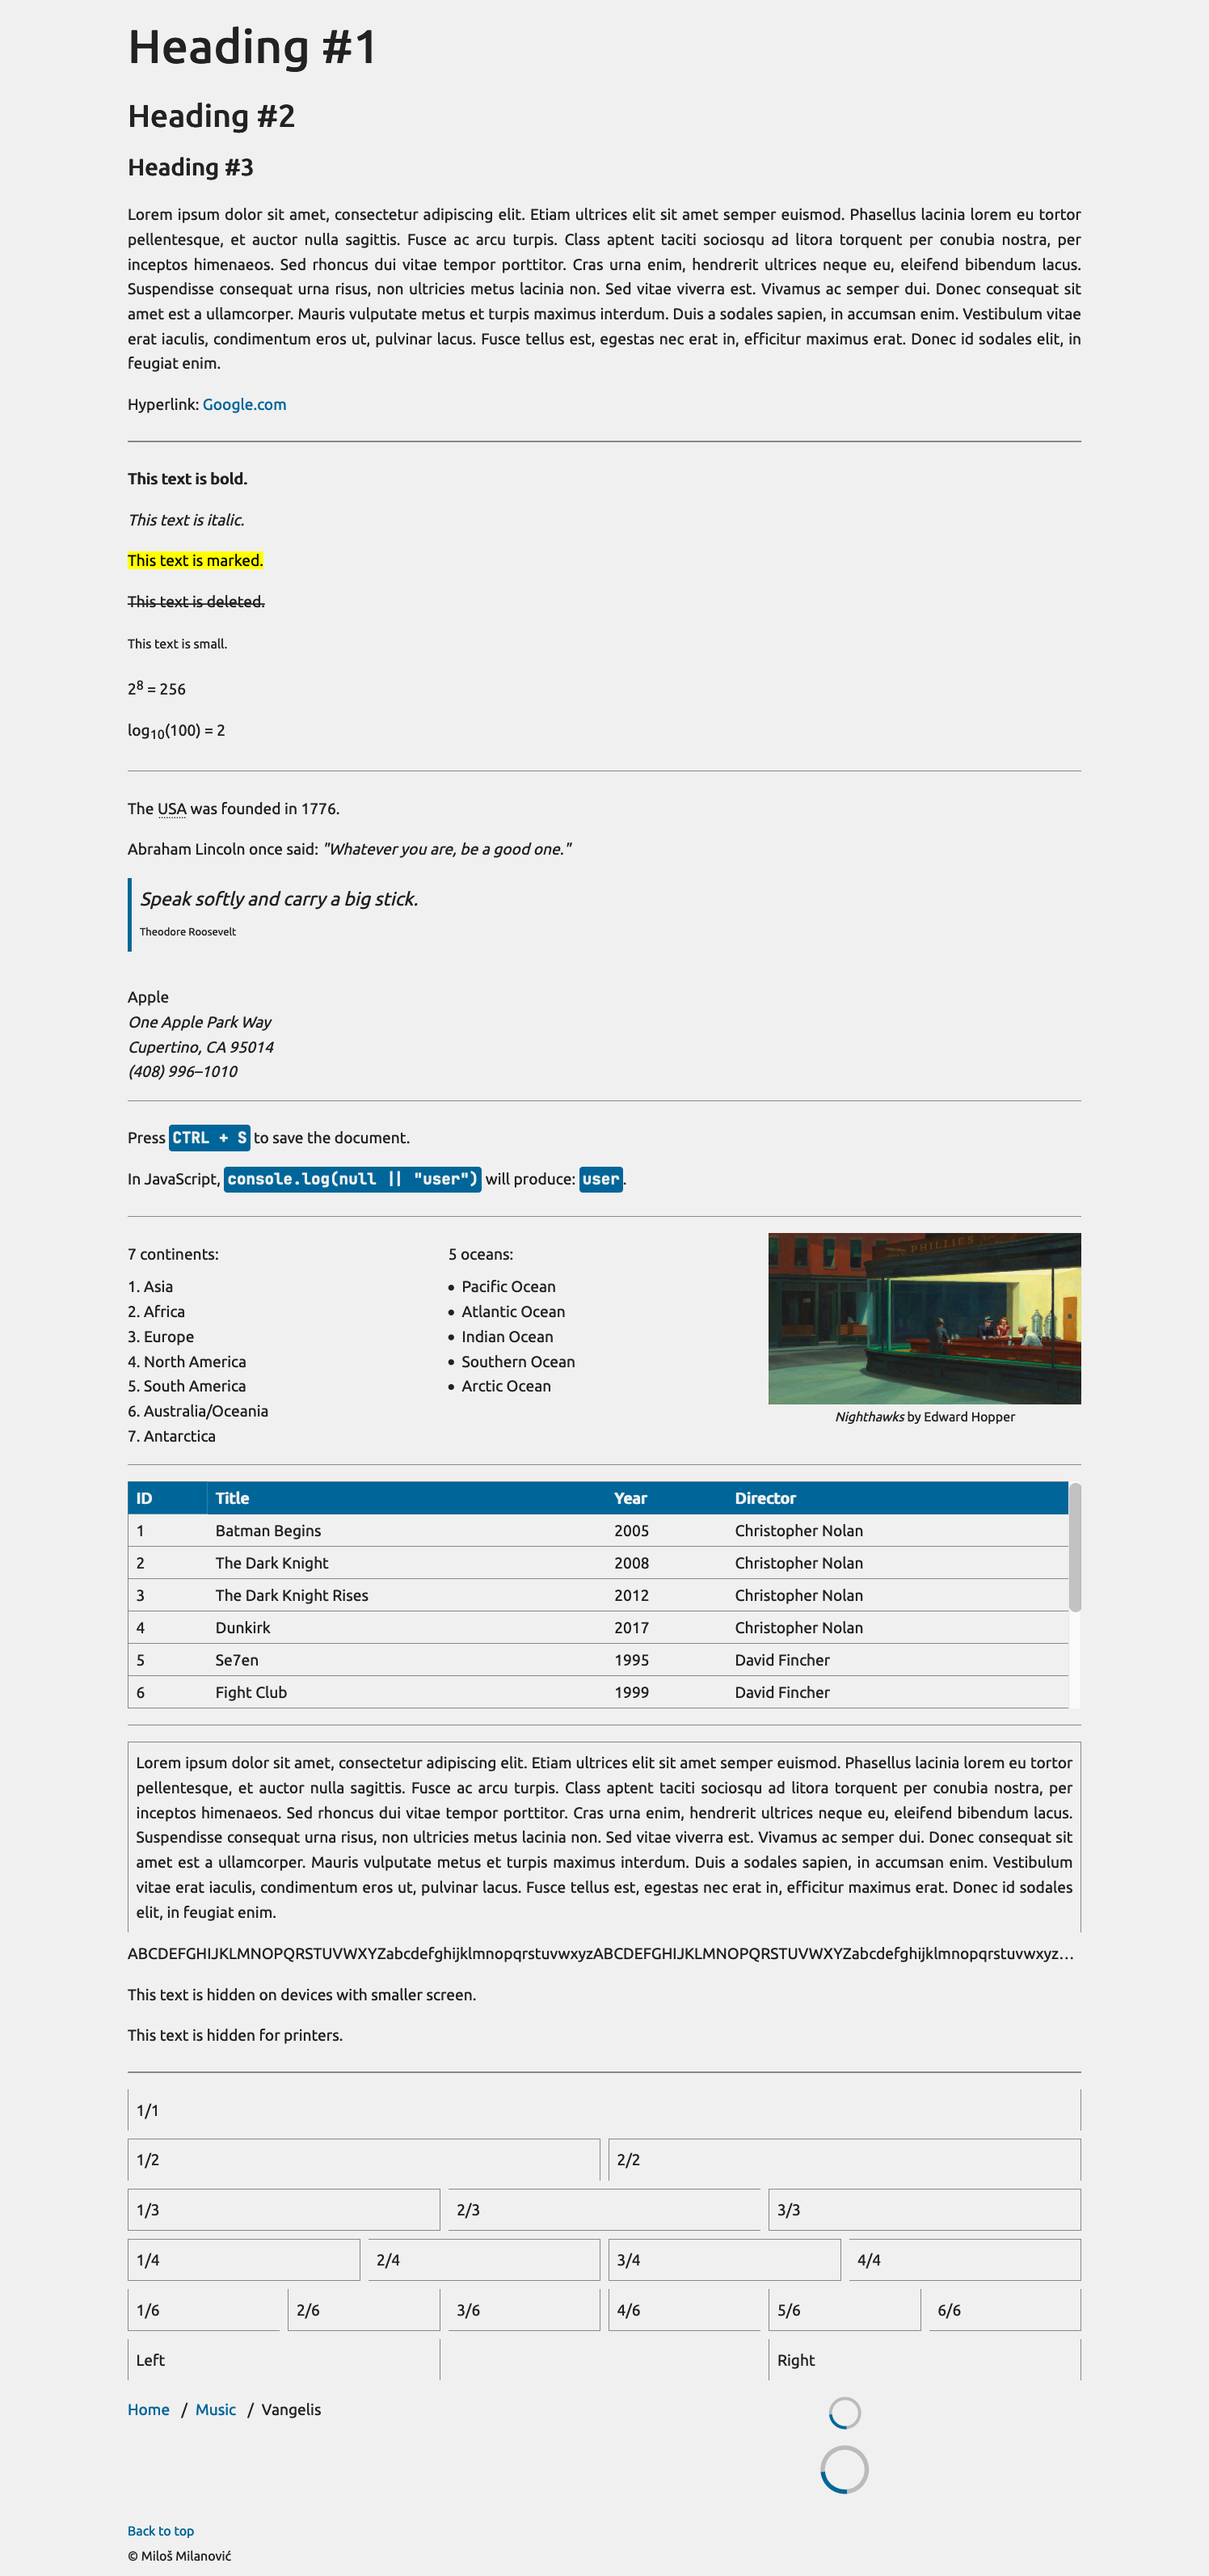
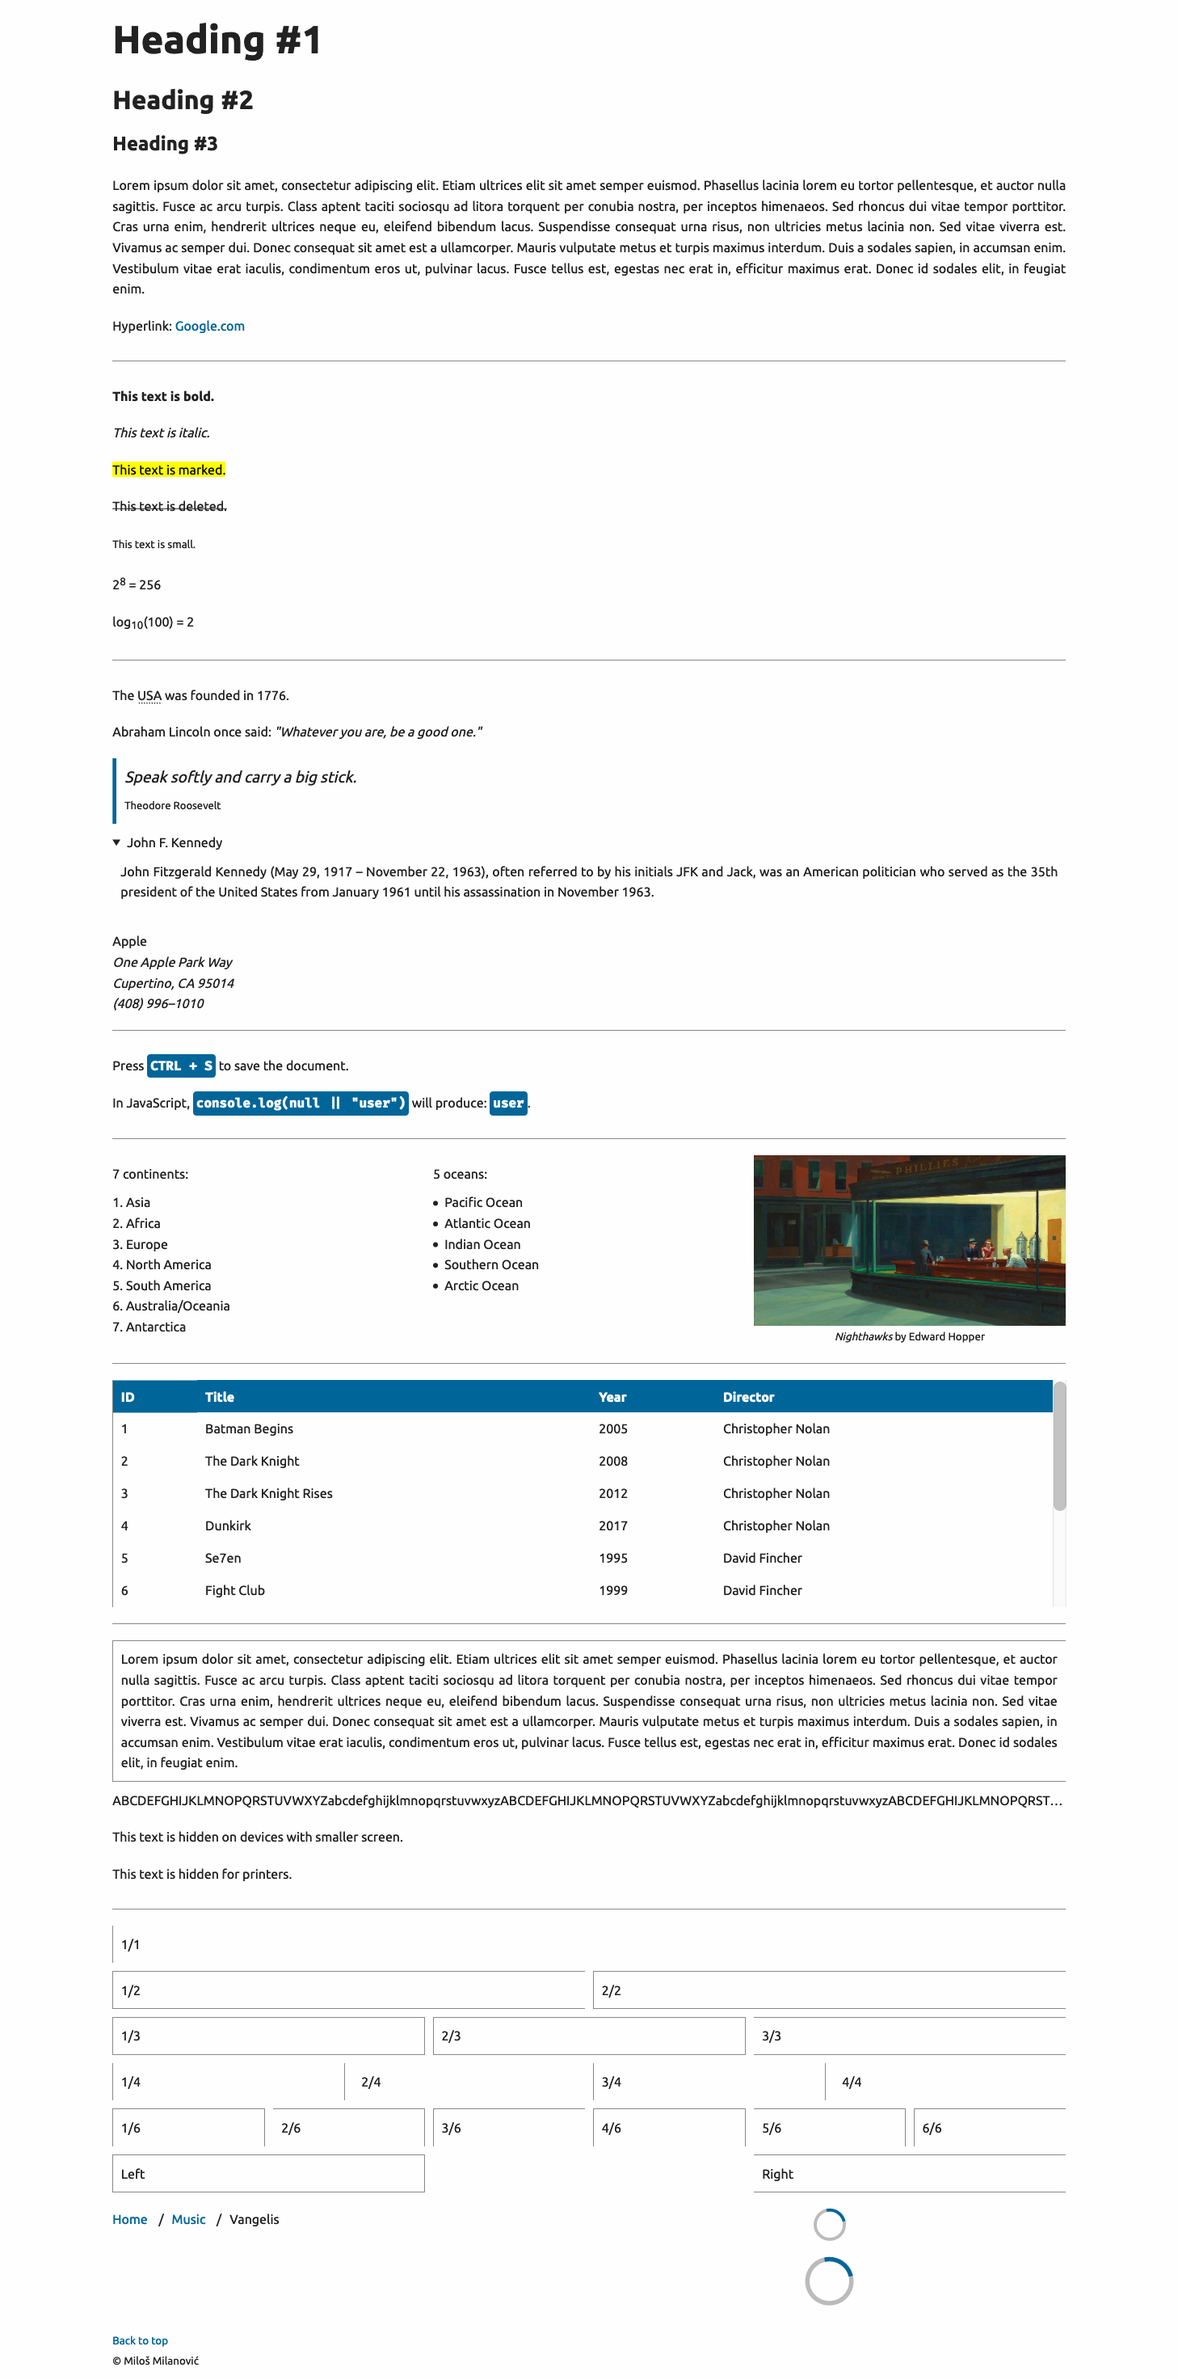
Add HTML details and summary styles

diff --git a/dist/minimalizr.css b/dist/minimalizr.css
@@ -1,1 +1,1 @@
-@import"https://fonts.googleapis.com/css2?family=Ubuntu:wght@300;400;700&display=swap";@import"https://fonts.googleapis.com/css2?family=Fira+Code:wght@300;400;700&display=swap";*{font-family:"Ubuntu",sans-serif}*{box-sizing:border-box;margin:0;padding:0}*::selection{background-color:#069;color:#f0f0f0}html{font-size:100%;scroll-behavior:smooth}body{background-color:#f0f0f0;color:#222;font-size:1rem;line-height:1.6rem}h1,h2,h3{margin:10px 0}h1{font-size:3rem;line-height:4.8rem}h2{font-size:2rem;line-height:3.2rem}h3{font-size:1.5rem;line-height:2.4rem}p{padding:10px 0;text-align:justify}a{cursor:pointer;text-decoration:none;color:#069}a:hover,a:active{color:inherit}strong{font-weight:bold}em{font-style:italic}mark{background-color:#ff0}del{text-decoration:line-through}small,sub,sup{font-size:smaller}sub{vertical-align:sub}sup{vertical-align:super}abbr{text-decoration:none}abbr[title]{border-bottom:2px dotted #222}q{font-style:italic}q::before,q::after{content:'"'}blockquote{border-left:5px solid #069;font-style:italic;margin:10px 0;padding:10px;text-align:justify;font-size:larger}blockquote div{font-size:small;font-style:normal;margin-top:10px}address,cite{font-style:italic}kbd,samp,code,pre{font-family:"Fira Code",monospace;font-weight:bold}kbd,samp,code{background-color:#069;color:#f0f0f0;padding:4px;border-radius:4px}ul,ol{list-style-position:inside}img{max-width:100%;vertical-align:middle}figure figcaption{font-size:smaller;text-align:center}.table-responsive{max-width:100%;overflow-x:auto;overflow-y:scroll;max-height:281px}table{border:1px solid #888;border-right:0;border-collapse:collapse;width:100%}th,td{padding:0 10px;text-align:left;height:40px;vertical-align:middle;white-space:nowrap}th{background-color:#069;color:#f0f0f0;position:sticky;top:0}tbody tr{border-bottom:1px solid #888}tbody tr:last-of-type{border-bottom:0}hr{border:1px solid #888;margin:20px 0}footer{font-size:smaller}@media screen and (max-width: 768px){body{font-size:.9rem}}.container{width:1200px;max-width:100%;margin:0 auto}.container-fluid{width:100%}.container,.container-fluid{padding:0 10px}.row{display:grid;grid-template-columns:repeat(12, 1fr);margin:10px 0}.row-gapped{grid-gap:10px}.col-1{grid-column:span 1}.col-2{grid-column:span 2}.col-3{grid-column:span 3}.col-4{grid-column:span 4}.col-5{grid-column:span 5}.col-6{grid-column:span 6}.col-7{grid-column:span 7}.col-8{grid-column:span 8}.col-9{grid-column:span 9}.col-10{grid-column:span 10}.col-11{grid-column:span 11}.col-12{grid-column:span 12}.col-pull-right{grid-column-end:-1}@media screen and (max-width: 768px){.col-sm-1{grid-column:span 1}.col-sm-2{grid-column:span 2}.col-sm-3{grid-column:span 3}.col-sm-4{grid-column:span 4}.col-sm-5{grid-column:span 5}.col-sm-6{grid-column:span 6}.col-sm-7{grid-column:span 7}.col-sm-8{grid-column:span 8}.col-sm-9{grid-column:span 9}.col-sm-10{grid-column:span 10}.col-sm-11{grid-column:span 11}.col-sm-12{grid-column:span 12}}.bordered{border:1px solid #888}.padded{padding:10px}.text-left{text-align:left}.text-center{text-align:center}.text-right{text-align:right}.text-justify{text-align:justify}.text-truncate{overflow:hidden;text-overflow:ellipsis;white-space:nowrap}.no-scroll{overflow:hidden}ul.breadcrumbs{display:flex;list-style-type:none;user-select:none}ul.breadcrumbs li{padding:10px 0}ul.breadcrumbs li:not(:last-child)::after{content:" / ";color:#222;display:inline-block;margin:0 10px}ul.breadcrumbs li:last-child a{cursor:initial;font-weight:normal;border-bottom:0;color:inherit}@keyframes spin{from{transform:rotate(0deg)}to{transform:rotate(360deg)}}.spinner{height:40px;width:40px}.spinner,.spinner-l,.spinner-xl,.spinner-xxl{border:4px solid #bbb;border-top:4px solid #069;border-radius:50%;display:block;margin:10px auto;overflow:hidden;animation-name:spin;animation-duration:1s;animation-timing-function:linear;animation-iteration-count:infinite}.spinner-l{height:60px;width:60px;border-width:6px}@media screen and (max-width: 768px){.hide-on-sm{display:none}}@media print{.hide-on-print{display:none}}/*# sourceMappingURL=minimalizr.css.map */
+@import"https://fonts.googleapis.com/css2?family=Ubuntu:wght@300;400;700&display=swap";@import"https://fonts.googleapis.com/css2?family=Fira+Code:wght@300;400;700&display=swap";*{font-family:"Ubuntu",sans-serif}*{box-sizing:border-box;margin:0;padding:0}*::selection{background-color:#069;color:#fefefe}html{font-size:100%;scroll-behavior:smooth}body{background-color:#fefefe;color:#222;font-size:1rem;line-height:1.6rem}h1,h2,h3{margin:10px 0}h1{font-size:3rem;line-height:4.8rem}h2{font-size:2rem;line-height:3.2rem}h3{font-size:1.5rem;line-height:2.4rem}p{padding:10px 0;text-align:justify}a{cursor:pointer;text-decoration:none;color:#069}a:hover,a:active{color:inherit}strong{font-weight:bold}em{font-style:italic}mark{background-color:#ff0}del{text-decoration:line-through}small,sub,sup{font-size:smaller}sub{vertical-align:sub}sup{vertical-align:super}abbr{text-decoration:none}abbr[title]{border-bottom:2px dotted #222}q{font-style:italic}q::before,q::after{content:'"'}blockquote{border-left:5px solid #069;font-style:italic;margin:10px 0;padding:10px;text-align:justify;font-size:larger}blockquote div{font-size:small;font-style:normal;margin-top:10px}details summary{cursor:pointer}details p{margin:0;padding:10px}address,cite{font-style:italic}kbd,samp,code,pre{font-family:"Fira Code",monospace;font-weight:bold}kbd,samp,code{background-color:#069;color:#fefefe;padding:4px;border-radius:4px}ul,ol{list-style-position:inside}img{max-width:100%;vertical-align:middle}figure figcaption{font-size:smaller;text-align:center}.table-responsive{max-width:100%;overflow-x:auto;overflow-y:scroll;max-height:281px}table{border:1px solid #888;border-right:0;border-collapse:collapse;width:100%}th,td{padding:0 10px;text-align:left;height:40px;vertical-align:middle;white-space:nowrap}th{background-color:#069;color:#fefefe;position:sticky;top:0}tbody tr{border-bottom:1px solid #888}tbody tr:last-of-type{border-bottom:0}hr{border:1px solid #888;margin:20px 0}footer{font-size:smaller}@media screen and (max-width: 768px){body{font-size:.9rem}}.container{width:1200px;max-width:100%;margin:0 auto}.container-fluid{width:100%}.container,.container-fluid{padding:0 10px}.row{display:grid;grid-template-columns:repeat(12, 1fr);margin:10px 0}.row-gapped{grid-gap:10px}.col-1{grid-column:span 1}.col-2{grid-column:span 2}.col-3{grid-column:span 3}.col-4{grid-column:span 4}.col-5{grid-column:span 5}.col-6{grid-column:span 6}.col-7{grid-column:span 7}.col-8{grid-column:span 8}.col-9{grid-column:span 9}.col-10{grid-column:span 10}.col-11{grid-column:span 11}.col-12{grid-column:span 12}.col-pull-right{grid-column-end:-1}@media screen and (max-width: 768px){.col-sm-1{grid-column:span 1}.col-sm-2{grid-column:span 2}.col-sm-3{grid-column:span 3}.col-sm-4{grid-column:span 4}.col-sm-5{grid-column:span 5}.col-sm-6{grid-column:span 6}.col-sm-7{grid-column:span 7}.col-sm-8{grid-column:span 8}.col-sm-9{grid-column:span 9}.col-sm-10{grid-column:span 10}.col-sm-11{grid-column:span 11}.col-sm-12{grid-column:span 12}}.bordered{border:1px solid #888}.padded{padding:10px}.text-left{text-align:left}.text-center{text-align:center}.text-right{text-align:right}.text-justify{text-align:justify}.text-truncate{overflow:hidden;text-overflow:ellipsis;white-space:nowrap}.no-scroll{overflow:hidden}ul.breadcrumbs{display:flex;list-style-type:none;user-select:none}ul.breadcrumbs li{padding:10px 0}ul.breadcrumbs li:not(:last-child)::after{content:" / ";color:#222;display:inline-block;margin:0 10px}ul.breadcrumbs li:last-child a{cursor:initial;font-weight:normal;border-bottom:0;color:inherit}@keyframes spin{from{transform:rotate(0deg)}to{transform:rotate(360deg)}}.spinner{height:40px;width:40px}.spinner,.spinner-l,.spinner-xl,.spinner-xxl{border:4px solid #bbb;border-top:4px solid #069;border-radius:50%;display:block;margin:10px auto;overflow:hidden;animation-name:spin;animation-duration:1s;animation-timing-function:linear;animation-iteration-count:infinite}.spinner-l{height:60px;width:60px;border-width:6px}@media screen and (max-width: 768px){.hide-on-sm{display:none}}@media print{.hide-on-print{display:none}}/*# sourceMappingURL=minimalizr.css.map */

diff --git a/index.html b/index.html
@@ -51,6 +51,16 @@
 			Speak softly and carry a big stick.
 			<div>Theodore Roosevelt</div>
 		</blockquote>
+
+		<details>
+			<summary>John F. Kennedy</summary>
+			<p>
+				John Fitzgerald Kennedy (May 29, 1917 – November 22, 1963), often referred to by his initials
+				JFK and Jack, was an American politician who served as the 35th president of the United States
+				from January 1961 until his assassination in November 1963.
+			</p>
+		</details>
+
 		<br>
 		Apple
 		<address>

diff --git a/src/_base.scss b/src/_base.scss
@@ -5,7 +5,7 @@
 $colors: (
 	"main": #069,
 	"dark": #222,
-	"light": #f0f0f0,
+	"light": #fefefe,
 	"dark-gray": #888,
 	"highlight": #ff0,
 	"light-gray": #bbb,
@@ -139,6 +139,16 @@ blockquote {
 		font-size: small;
 		font-style: normal;
 		margin-top: 10px;
+	}
+}
+
+details {
+	summary {
+		cursor: pointer;
+	}
+	p {
+		margin: 0;
+		padding: 10px;
 	}
 }
 
